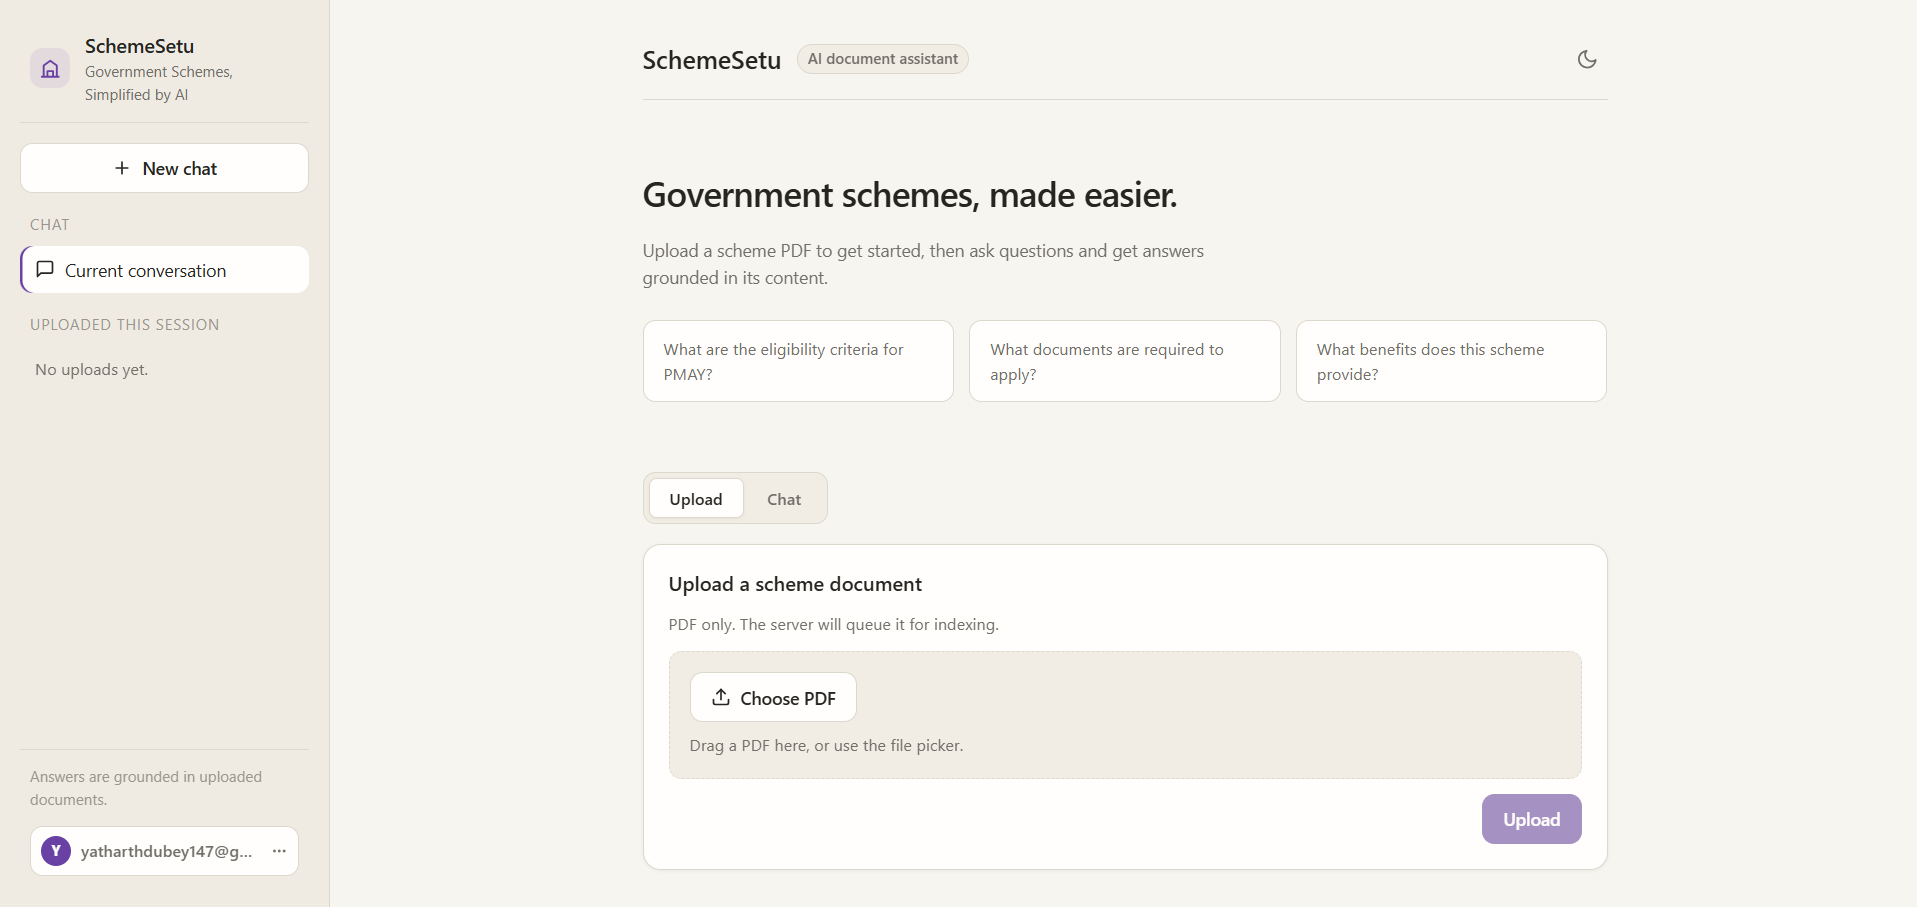
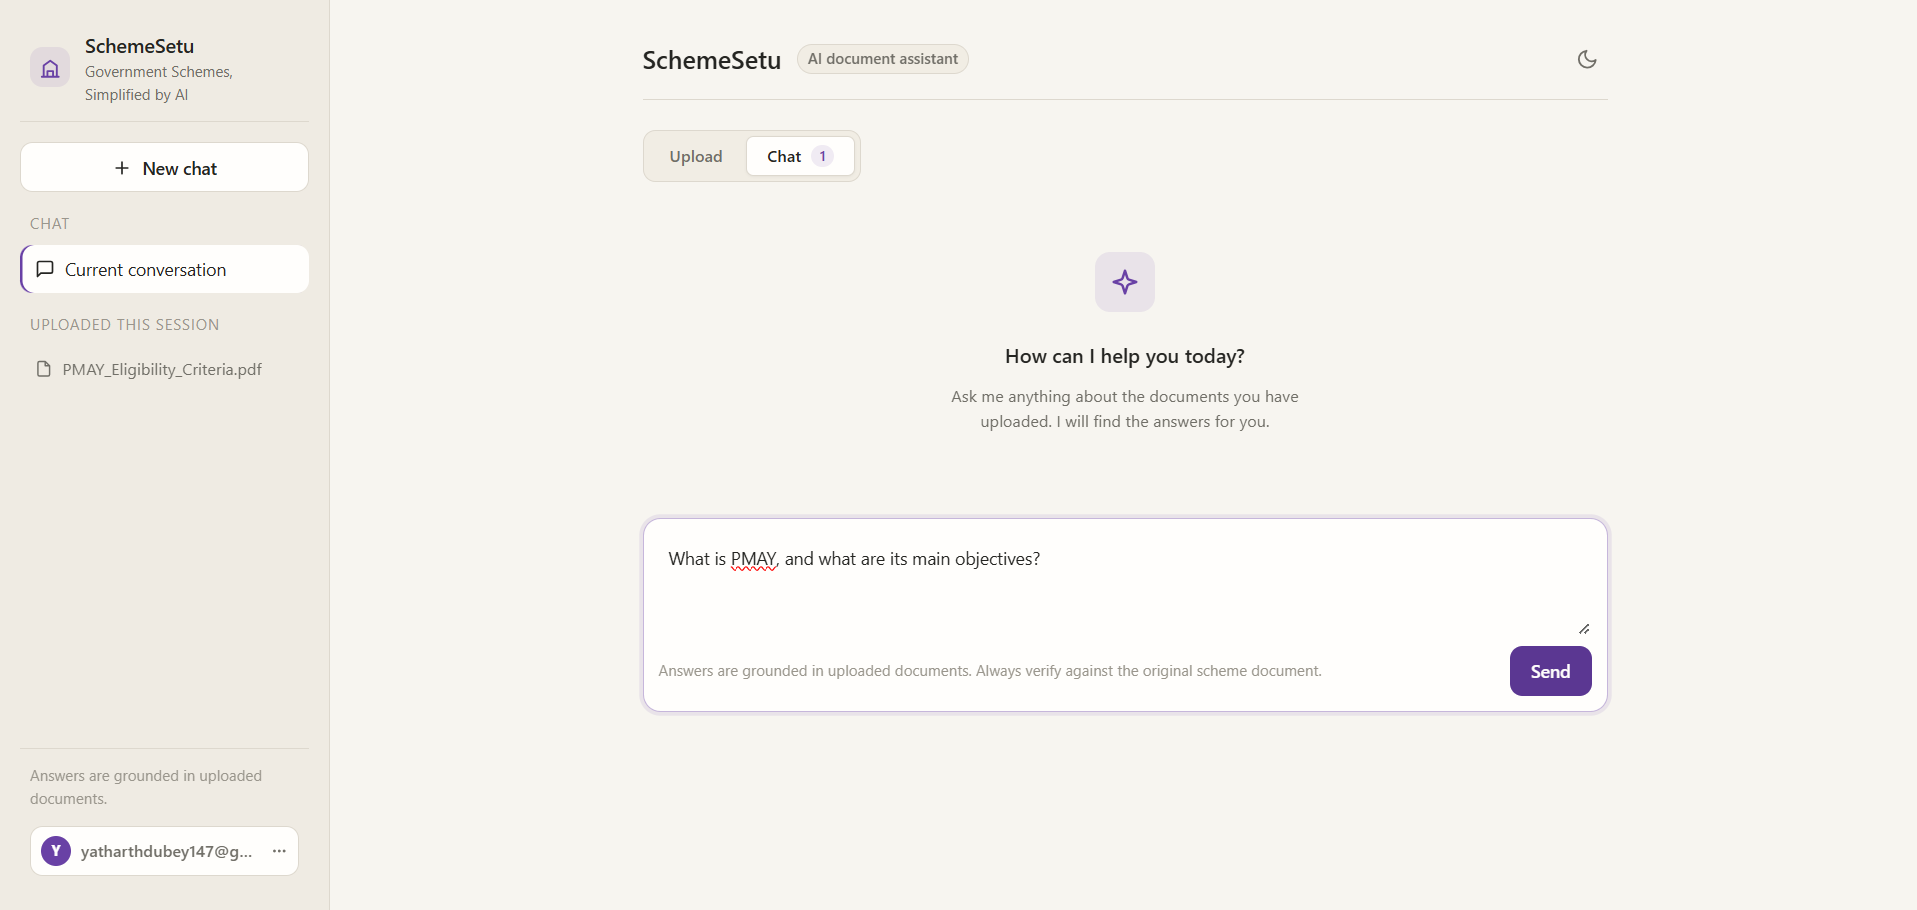
minor ui fixes

diff --git a/frontend/src/components/landing/LandingPage.jsx b/frontend/src/components/landing/LandingPage.jsx
@@ -1,7 +1,7 @@
 import { useState, useEffect, useRef, useCallback } from 'react'
 
+import previewUpload from '../../assets/screenshots/preview-uploadbase.png'
 import previewChat from '../../assets/screenshots/preview-chat.png'
-import previewUpload from '../../assets/screenshots/preview-upload.png'
 import previewHistory from '../../assets/screenshots/preview-history.png'
 import previewLoadMore from '../../assets/screenshots/preview-loadmore.png'
 
@@ -63,7 +63,7 @@ const TOUR = [
     ],
     image: previewUpload,
     alt: 'SchemeSetu upload screen with the Upload button highlighted',
-    hotspot: { x: 62, y: 62, w: 30, h: 14 },
+    hotspot: { x: 31, y: 58, w: 55, h: 40 },
     tag: 'Click Upload to add your PDF',
     tagPos: 'above',
     tagAlign: 'right',
@@ -81,7 +81,7 @@ const TOUR = [
     ],
     image: previewChat,
     alt: 'SchemeSetu chat box with a question being asked',
-    hotspot: { x: 4, y: 70, w: 92, h: 22 },
+    hotspot: { x: 31, y: 53, w: 55, h: 30 },
     tag: 'Type your question here',
     tagPos: 'above',
     tagAlign: 'left',
@@ -99,7 +99,7 @@ const TOUR = [
     ],
     image: previewHistory,
     alt: 'SchemeSetu history timeline with past questions',
-    hotspot: { x: 3, y: 6, w: 94, h: 60 },
+    hotspot: { x: 30.5, y: 10, w: 55, h: 58 },
     tag: 'Your past questions live here',
     tagPos: 'below',
     tagAlign: 'left',
@@ -117,7 +117,7 @@ const TOUR = [
     ],
     image: previewLoadMore,
     alt: 'SchemeSetu history with the Load more button highlighted',
-    hotspot: { x: 32, y: 82, w: 36, h: 12 },
+    hotspot: { x: 70.5, y: 12, w: 15, h: 12 },
     tag: 'Press Load more for older answers',
     tagPos: 'above',
     tagAlign: 'left',
